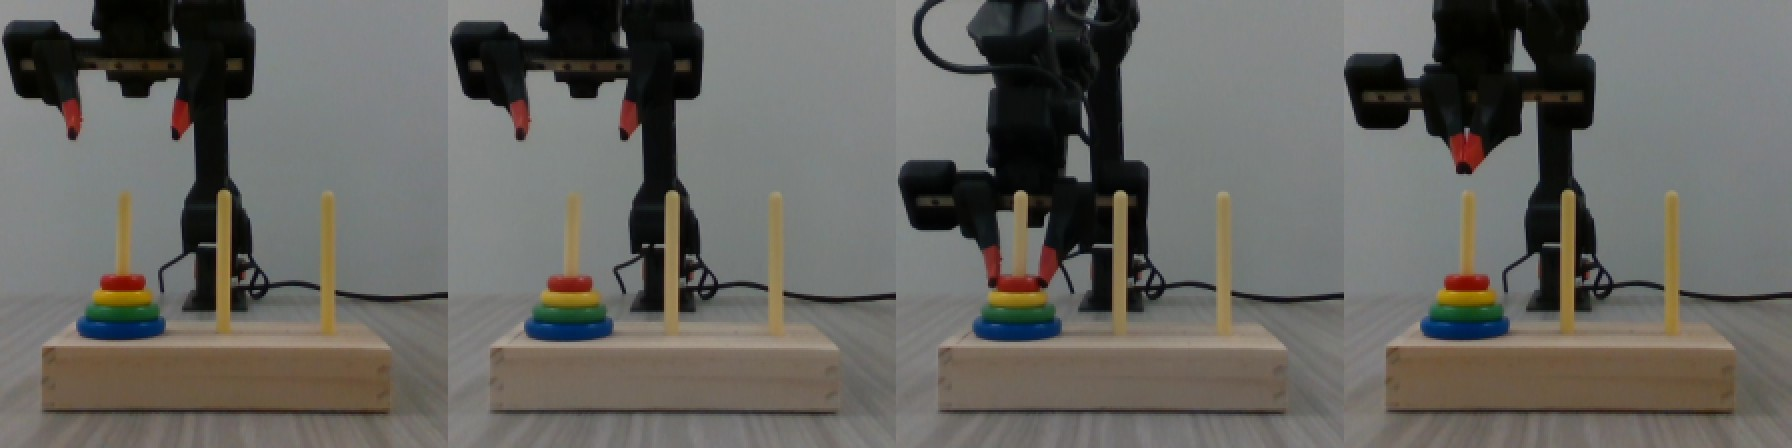
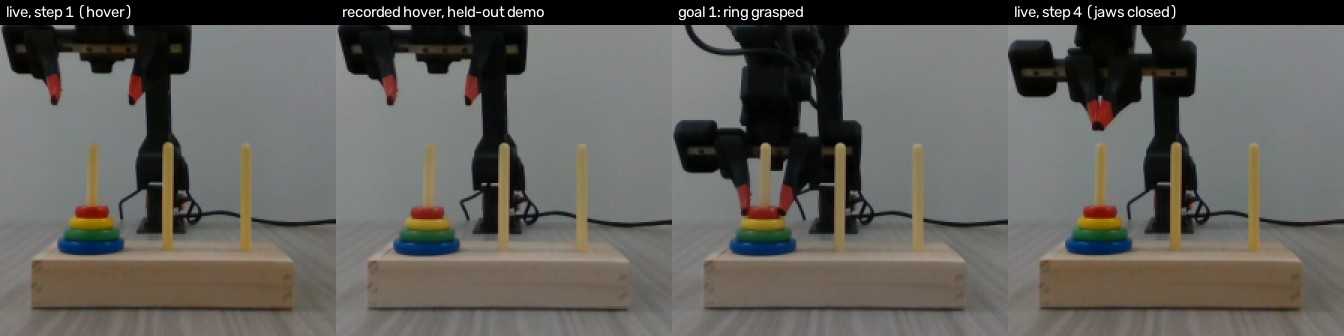
Correct and complete the 2026-10-13 robot results after a fact check
- RESULTS.md: fix the offline replay numbers of step 1 (+9.7, -31.6, -50.0) and
  their settings; H=3 mid-descent plan closes at its step 2 and moves 26 mm
  sideways; sideways components start at the hover; lateral distances instead of
  single axes; per-row ratio and clip-rate definitions; seed scheme; code versions
  of the runs; sweep rows start at the move start, not the hover; gripper std/clip
  are hard-coded in cem (needs code), axis indices for holds, subgoals need code;
  a runnable cluster block.
- sweep_analyze.py: clip threshold 0.99, step caps 16.7 and 8 mm; summary regenerated.
- figures re-rendered with single, readable labels.
- README and paper_protocol_eval: the maxnorm clip does bind CEM's plans; link the results.

Changed region(s): [[0.125, 0.0, 1.0, 0.0893], [0.0, 0.0, 0.0938, 0.0893]]

diff --git a/app/vjepa_hanoi/robot_results/2026-10-13/tools/sweep_analyze.py b/app/vjepa_hanoi/robot_results/2026-10-13/tools/sweep_analyze.py
@@ -1,5 +1,5 @@
 # Compare the maxnorm sweep, row-paired (same held-out rows and CEM seeds in every config).
-#   python -I analyze.py <sweep dir>
+#   python -I sweep_analyze.py <dir with ppe_maxnorm_*.json and *_rows.npz>
 import glob
 import json
 import os
@@ -37,7 +37,7 @@ for mn, res, r in runs:
     p3 = r["plan"][:, :3] * 1e3
     pmag = np.linalg.norm(p3, axis=1)
     cos3 = np.sum(p3[mov] * t3[mov], 1) / (pmag[mov] * tmag[mov] + 1e-9)
-    at_bound = np.mean(np.any(np.abs(r["plan"][:, :3]) >= 0.999 * mn, axis=1))
+    at_bound = np.mean(np.any(np.abs(r["plan"][:, :3]) >= 0.99 * mn, axis=1))
     scale = np.minimum(1.0, MAX_STEP * 1e3 / np.maximum(pmag, 1e-9))  # what the server would execute
     exec_err = np.linalg.norm(p3 * scale[:, None] - t3, axis=1)
     grip_sat = np.mean(np.abs(r["plan"][:, 6]) >= 0.74)
@@ -61,7 +61,7 @@ for g in (1, 2, 3):
     print(f"  goal {g} ({m.sum()} rows, {(m & mov).sum()} moving): " + " | ".join(cells))
 
 print("\nmedian error of the executed step (mm) if each planned step were capped at c mm (rows: maxnorm):")
-caps = [26.7, 17.5, 10.0, 7.5, 5.0]
+caps = [26.7, 16.7, 10.0, 8.0, 5.0]  # server caps: --max_speed 0.10 / 0.0625 / 0.03
 print(f"{'':>8}" + "".join(f"{f'cap {c:g}':>10}" for c in caps) + f"{'expert size':>13}{'zero step':>11}")
 for mn, _, r in runs:
     p3, t3_ = r["plan"][:, :3] * 1e3, r["true"][:, :3] * 1e3

diff --git a/app/vjepa_hanoi/robot_results/2026-10-13/tools/probe_planner.py b/app/vjepa_hanoi/robot_results/2026-10-13/tools/probe_planner.py
@@ -5,6 +5,8 @@
 #   --mode simple   simple goals from a training demo: "descended" (end of the descend stage) from the hover and along
 #                   the descent, then "grasped" (end of the grasp stage) from the bottom of the descent
 # Prints the planner's first action (and for H > 1 the whole plan) next to the expert's next step.
+# Held-out rows start at the last approach row (stage 2 end). --transition, --recording and --live go together: the
+# recording must hold that transition (episode 0 = first training demo, 9 = held-out); --live '' skips the live frame.
 #
 #   PYTHONPATH=<vjepa2> python app/vjepa_hanoi/robot_results/2026-10-13/tools/probe_planner.py --mode horizon \
 #       --bundle /scratch/cw5167/checkpoints/vjepa2_ac_hanoi/robot_bundle_firstmove --samples 400 --horizons 1,2,3

diff --git a/app/vjepa_hanoi/paper_protocol_eval.py b/app/vjepa_hanoi/paper_protocol_eval.py
@@ -27,7 +27,8 @@
 #
 # Deviations from the paper, stated:
 #   - The repo planner (notebooks/utils/mpc_utils.py::cem) clips each axis to a box (maxnorm 0.05 m), where the paper
-#     uses an L1 ball of radius 0.075. Neither binds here: expert steps are <= 3.3 cm.
+#     uses an L1 ball of radius 0.075. Neither binds the expert (steps <= 3.3 cm), but CEM's plans sit at the clip
+#     in most rows (robot_results/2026-10-13/RESULTS.md).
 #   - The paper's 4/10/4-step schedule is specific to its task, so the Hanoi schedule is set from expert timing.
 #   - --fix_x (off by default) holds x at 0 via the repo planner's axis option. x never varies in this data, so
 #     the model cannot learn its effect, and the planned x is otherwise random.

diff --git a/app/vjepa_hanoi/robot_results/2026-10-13/RESULTS.md b/app/vjepa_hanoi/robot_results/2026-10-13/RESULTS.md
@@ -1,26 +1,32 @@
 # V-JEPA 2-AC one-move test on the real arm: results and the open problem (2026-10-13)
 
-Case tested: **AAAA>BAAA** (ring 1 from peg A to peg B), variant `hold`, bundle `robot_bundle_firstmove` (weights
-sha256 `b60ad194…d320`, epoch 5). Robot machine: Trossen WXAI, RealSense on thor2, RTX 5080 (16 GB) running the
-planning server locally. Code: branch `hanoi-ac`, commits d87c15a (server) and 6271bb6 (runner); the hardware runs
-below ran that code before it was committed (their session files show HEAD 2b4a2f0 plus the changed files).
+Case tested: **AAAA>BAAA** (ring 1 from peg A to peg B), variant `hold` (the runner sends `hold_grasp=true` per run:
+gripper held closed while goal 2 is active, so every failure below, all under goal 1, is the same as `faithful`).
+Bundle `robot_bundle_firstmove` (weights sha256 `b60ad194…d320`, epoch 5). Robot machine: Trossen WXAI, RealSense on
+thor2, RTX 5080 (16 GB) running the planning server locally.
+
+Code: the runs used uncommitted working trees on top of 2b4a2f0 (session diff sha256 `fe54f307…` at 15:54 and
+`ffc60852…` at 16:48; the 10-11 run predates the `--execute` gate and records no diff). Their planning code equals
+d87c15a except for its memory/override options; the runner/safety code was revised before 6271bb6.
 
 **Bottom line.** The published protocol (horizon 1, three goal images, 800 CEM samples) fails at the first stage on the
-arm: at step 1, above the source peg, the planner **closes the gripper** (gripper action +0.75, the sampling limit),
-about 105 mm above the ring, then descends with closed jaws, with large random sideways components, until the 3 mm
-low-lateral guard stops it. No planner parameter tried offline (maxnorm, step cap, horizon 1-3, simpler subgoals)
-removes both failure modes: **(1) a premature close at the hover, (2) sideways drift near the rods.**
+arm: at step 1, above the source peg, the planner **closes the gripper** (gripper action +0.75, the sampling limit)
+about 105 mm above the ring, then descends with closed jaws while its x/y actions jump between large values, until
+the 3 mm low-lateral guard stops it. No planner setting tried offline (maxnorm, step cap, horizon 1-3, simpler
+subgoals) removes both failure modes: **(1) a premature close at the hover, (2) large sideways components from the
+hover onward** (31-41 mm at H=1 at the hover, 11-57 mm lower down).
 
 ## 1. Hardware runs
 
 | Run (`hardware/`) | Start | Server step cap | Steps | Outcome |
 |---|---|---|---|---|
-| `one_move_2026-10-11` | episode start (414, 16, 191) mm | 26.7 mm | 0 | stopped by the operator (Ctrl-C) before step 1 |
+| `one_move_2026-10-11` | episode start (414, 16, 191) mm | 26.7 mm | 0 | operator Ctrl-C before step 1 (metadata only) |
 | `one_move_2026-10-13` | episode start | 8 mm (`--max_speed 0.03`) | 2 | operator Ctrl-C; closed at step 1 in mid-air |
 | `one_move_2026-10-13_hover` | hover above peg A (498.4, -57.2, 191.1) mm | 8 mm | 4 | `UnsafeStep`: 5.8 mm sideways below the low floor |
 
 All: paper planner (rollout 1, 800 samples, 10 CEM steps, top 10, maxnorm 0.05, momentum 0.15), `--predictor_chunk
-200`, seed 37195. Hover run step by step (plan = CEM's first action before execution safety; exec = executed delta):
+200`. Run seed 37195; step k plans with CEM seed 37195 x 1000 + k (in `.steps.jsonl`). Hover run, step by step
+(plan = CEM's first action before execution safety; exec = executed delta):
 
 | Step | Tool z | Planned dxyz (mm) | Gripper | Executed (mm) | Goal-1 energy |
 |---|---|---|---|---|---|
@@ -29,66 +35,74 @@ All: paper planner (rollout 1, 800 samples, 10 CEM steps, top 10, maxnorm 0.05, 
 | 3 | 175 | (-14.0, -18.2, -50.0) | +0.61 close | (-2.2, -0.5, -7.7) | 0.528 |
 | 4 | 167 | (-17.8, +50.0, -50.0) | +0.74 close | (-2.0, +5.5, -5.5) -> guard stop | 0.533 |
 
-- z is pinned at -50 mm (the sampling limit) every step; y jumps between -40 and +50 mm; the energy stays flat.
+- z is at -50 mm (the sampling limit) every step; y swings between -40.5 and +50 mm; the energy stays flat.
 - Episode-start run: steps 1-2 planned (+50.0, -49.9, -48.5) and (+50.0, -50.0, -34.9) mm, gripper +0.74/+0.75.
 - **The input pipeline is not the problem.** The live hover frame and the recorded hover frame of the held-out demo
-  differ by 5.8 grey levels mean-abs (10.2 with RGB swapped), same crop: `figures/live_vs_recorded.jpg` (live step 1,
-  recorded hover, goal 1, live step 4). Offline, planning from the live step-1 frame reproduces the robot's step 1
-  exactly (+9.8, -32.2, -50.0) mm, +0.75 (`offline/horizon_probe.txt`).
-- Each `.npz` has every step (pose, jaw, action, executed delta, energies, intent, goal index, plan seconds, move
-  time and class, grasp reading) with its 224 px camera frame; `.steps.jsonl` is the same per step without images.
+  (row 70355) differ by 5.8 grey levels mean-abs (10.2 with RGB swapped), same crop: `figures/live_vs_recorded.jpg`.
+  Offline, planning from the live step-1 frame (400 samples, seed 7) gives (+9.7, -31.6, -50.0) mm, +0.75, plan
+  energy 0.410; the robot's step 1 (800 samples, seed 37195001) was (+9.7, -31.6, -50.0), +0.75, 0.4095.
+- Logs: each `.npz` has every step (pose, jaw, action, executed delta, energies, intent, goal index, plan seconds,
+  move time and class, grasp reading) with its 224 px frame. `.steps.jsonl` has the per-step fields without images
+  and grasp reading, plus target pose and seed. The 10-11 run has metadata only.
 
 ## 2. How the planner works here (notebooks/utils/mpc_utils.py::cem via goal_planner.py --protocol paper)
 
 - Horizon 1 model step = 0.267 s (data: every 8th 30 Hz row, 3.75 Hz). Receding horizon: replan every step.
-- Actions: [dx, dy, dz] ~ N(0, 50 mm) per axis clipped to +-maxnorm (50 mm); rotation fixed 0; gripper (change in
-  closedness, 0 open .. 1 closed) ~ **N(0, 1.0) clipped to +-0.75**. Final action = CEM mean after 10 iterations.
-- Server: intent = close if closedness + a_grip > 0.5; xyz clamped to the training-data box, then capped at
-  max_speed x 0.267 s; orientation fixed. Planning takes about 25 s per step on the RTX 5080 (about 7 s on an H200).
-- Goals (paper protocol): 3 frames of the first training demo of the same transition: end of grasp, end of transit,
-  end of release; switched by step count. From the hover the expert schedule is [13, 16, 11] (demos reach the hover
-  15.9 steps after their first row for source pegs A and C, 13.2 for B; the hover is tower_hanoi's
-  `grasp_position(peg)` at transit height, matching the demos within 0.4 mm). `figures/goal_images.jpg` shows the
-  start (hover) and the three goals for all six cases.
+- Sampling vector [dx, dy, dz, grip] (rotation fixed 0). xyz ~ N(0, maxnorm) per axis, clipped to +-maxnorm: the
+  initial std *is* maxnorm, so the maxnorm sweep changes both. grip (change in closedness, 0 open .. 1 closed) ~
+  **N(0, 1.0), clipped to +-0.75**. Both are hard-coded in `cem()` (no flag). The returned action is the CEM mean
+  after 10 iterations; a gripper mean with |g| < 0.25 is returned as 0 (`round_small_elements`).
+- Server: intent = close if clip(closedness + grip, 0, 1) > 0.5; xyz clamped to the training-data box, then capped at
+  max_speed x 0.267 s; orientation fixed. Planning takes about 25 s per step on the RTX 5080 (800 samples, H=1).
+- Goals (paper protocol): 3 frames of the first training demo of the same transition (end of grasp / transit /
+  release), switched by step count. From the hover the expert schedule is [13, 16, 11]: demos reach the hover 15.9
+  steps after their first row for source pegs A and C, 13.2 for B; the hover is tower_hanoi's `grasp_position(peg)`
+  at transit height, matching the demos within 0.4 mm. `figures/goal_images.jpg`: start + 3 goals, all six cases.
 - Expert stage durations from the hover, AAAA>BAAA (model steps): descend 7.9 (105 mm, median 16.5 mm/step, max
   ~24) | grasp 5.2 | lift 7.9 | transit 7.9 (15.8 for A<->C) | insert 7.9 | release 3.8.
 
 ## 3. Offline experiments (local RTX 5080, same bundle)
 
-**maxnorm sweep** (`offline/maxnorm_sweep/`, `paper_protocol_eval.py`, 72 held-out rows of the six first moves,
-same rows and seeds per setting; held-out archives rebuilt locally from the recordings, matching the bundle's goal
-frames and schedules exactly). Expert step: median 7.3 mm, p90 17.5, max 24.8.
+**maxnorm sweep** (`offline/maxnorm_sweep/`, `paper_protocol_eval.py --max_rows 72`: 72 rows spread over the six
+held-out first moves, same rows and seeds per setting; held-out/train archives rebuilt locally from the recordings,
+reproducing the bundle's goal frames and schedules exactly). Rows step from each move's **first row** (episode start,
+schedule [29,16,11]), not from the hover; for hover-start numbers use the rows with stage >= 3 in `*_rows.npz`.
+Expert step: median 7.3 mm, p90 17.5, max 24.8.
 
-| maxnorm | y-z direction right | 3D cos > 0 | planned step (median) | planned when the expert is still | executed error at the 26.7 mm cap |
-|---|---|---|---|---|---|
-| 50 mm | 0.93 | 0.82 | 65.8 mm (5.8x expert) | 47.3 mm | 22.7 mm |
-| 35 mm | 0.97 | 0.84 | 51.6 mm | 43.6 mm | 22.6 mm |
-| 25 mm | 0.95 | 0.78 | 40.1 mm | 32.0 mm | 23.1 mm |
-| 15 mm | 0.93 | 0.80 | 22.8 mm (2.0x) | 20.8 mm | 21.1 mm |
+| maxnorm | y-z direction right | 3D cos > 0 | planned step (median) | median per-row ratio to expert (moving rows) | rows with an axis at the clip | executed error at the 26.7 mm cap |
+|---|---|---|---|---|---|---|
+| 50 mm | 0.93 | 0.82 | 65.8 mm | 5.8 | 0.67 | 22.7 mm |
+| 35 mm | 0.97 | 0.84 | 51.6 mm | 4.7 | 0.74 | 22.6 mm |
+| 25 mm | 0.95 | 0.78 | 40.1 mm | 3.4 | 0.79 | 23.1 mm |
+| 15 mm | 0.93 | 0.80 | 22.8 mm | 2.0 | 0.82 | 21.1 mm |
 
-Direction is roughly right; magnitude always pushes to the sampling limit. Capping the executed step (from the saved
-rows): cap 17.5 mm -> ~16 mm error, 10 -> 10, 7.5 -> 7.6; planned direction with the expert's exact size -> 6.0-7.5;
-not moving at all -> 7.3 mm. Gripper sign accuracy 1.00 but on only 4 gripper events; 49-79% of rows have the
-gripper action at +-0.75.
+Direction is roughly right; the planned magnitude scales with maxnorm (median 1.3-1.6x maxnorm) and is far above the
+expert's, even on rows where the expert is still (planned 21-47 mm). Capping the executed step (from the saved rows):
+cap 16.7 mm -> 15-16 mm median error, 10 -> 10, 8 -> 8; planned direction at the expert's exact size -> 6.0-7.5; not
+moving at all -> 7.3 mm. Gripper sign accuracy 1.00 but on only 4 gripper events; 49-79% of rows have the gripper
+action at +-0.75.
 
-**Horizon probe, goal 1 "ring grasped"** (`offline/horizon_probe.txt`, 400 samples, seed 7; at 800 samples H >= 2
-does not fit in 16 GB). Times: H=1 12 s, H=2 39 s, H=3 80 s per plan.
+**Horizon probe, goal 1 "ring grasped"** (`offline/horizon_probe.txt`, 400 samples, seed 7, held-out rows 70355
+and 70387; at 800 samples H >= 2 does not fit in 16 GB). Times on the RTX 5080: H=1 12 s, H=2 39 s, H=3 80 s.
 
 | Start | Expert next | H=1 | H=2 | H=3 |
 |---|---|---|---|---|
-| live hover (z 191) | - | close +0.75, y -32 | close +0.74, sideways ~5 mm | close +0.50 (borderline), sideways ~21 mm |
-| recorded hover (z 191) | still, open | close +0.75 | close +0.51 | open +0.49; plan open/open/open |
-| 4 steps into the descent (z 138) | down 24 mm, open | close +0.74 | open -0.27, straight down | open -0.72; plan: down, down, then close |
+| live hover (z 191) | - | close +0.75; 33 mm sideways | close +0.74; 5 mm sideways | close +0.50 (borderline); 21 mm sideways |
+| recorded hover (z 191) | still, open | close +0.75; 32 mm sideways | close +0.51; 12 mm sideways | open +0.49; 9 mm sideways; plan stays open |
+| 4 steps into the descent (z 138) | down 24 mm, open | close +0.74 | open -0.27, straight down | open -0.72 but 26 mm sideways and only 29 mm down; plan closes at its step 2 |
 
 **Simple goals** (`offline/simple_goals_probe.txt`, goals from demo 0: "descended" = end of descend, jaws open around
-ring 1 at 87 mm; "grasped" = end of grasp; H=1 at 800 and H=2 at 400 samples).
+ring 1 at 87 mm; "grasped" = end of grasp; H=1 at 800 samples, H=2 at 400; held-out rows from the last approach row
+70354 on).
 
-| Start | Goal | Expert next | Planner |
+| Start | Goal | Expert next | Planner H=1 / H=2 |
 |---|---|---|---|
-| hover, live and recorded (z 191) | descended | still | down 50 mm, but **close** (+0.75 / +0.63) |
-| 3 steps down (z 165) | descended | down 24, open | down, open, but **20-50 mm sideways** |
-| 6 steps down (z 98) | descended | down 10, open | down 13-16 mm, open, small sideways (slows near the goal) |
-| end of descent (z 87) | grasped | close | **close**, no z move, but **11-15 mm sideways** |
+| live hover (z 191) | descended | - | down 50, **close** +0.75 / +0.75; sideways 41 / 1 mm |
+| recorded hover (z 191) | descended | still | down 50, **close** +0.75 / +0.63; sideways 31 / 11 mm |
+| 3 steps down (z 165) | descended | down 24, open | down 50, open, **57 / 32 mm sideways** |
+| 6 steps down (z 98) | descended | down 10, open | down 16 / 13 mm, open, 7 / 4 mm sideways (slows near the goal) |
+| end of descent (z 87) | grasped | still (closes 2 steps later) | **close** +0.63 / +0.58, no z move, 12 / 11 mm sideways |
+| 2 steps later (z 86) | grasped | close +0.70 | **close** +0.73 / +0.67, 18 / 17 mm sideways |
 
 ## 4. Diagnosis
 
@@ -98,30 +112,54 @@ ring 1 at 87 mm; "grasped" = end of grasp; H=1 at 800 and H=2 at 400 samples).
   H=2, borderline at H=3. Likely a learned correlation: in the data a close happens only at grasp height, so a close
   action makes the predicted frame look "lower", i.e. closer to any low goal. Contributing: the gripper's initial
   std 1.0 clipped at +-0.75 puts ~45% of first-iteration samples at the limit, and +0.5 already means close.
-- **Sideways drift**: the energy barely penalizes x/y; the expert never moves sideways during descend/grasp.
+- **Sideways components**: the energy barely penalizes x/y; the expert never moves sideways during descend/grasp.
 - **Distance**: goal 1 is 13 expert steps from the hover; horizon 1-3 cannot see it, and the model was trained on
   2-step rollouts (`loss.auto_steps: 2`).
 
 ## 5. Suggested next experiments (cluster, offline first)
 
-1. Reproduce: `probe_planner.py --mode horizon` and `--mode simple` (section 6), then `paper_protocol_eval.py` on all
-   six cases with `--rollout 2/3 --samples 400/800` (the H200 fits 800 at H >= 2).
-2. Gripper sampling, a plain CEM parameter rather than a task aid: smaller initial gripper std (e.g. 0.3) or a wider
-   clip; check whether the hover close disappears with the "descended" goal.
-3. Per-stage subgoals (end of descend, grasp, lift, transit, insert, release; 4-8 steps apart) with H=2-3.
-4. If 1-3 do not fix it (these are task aids, outside the paper baseline): hold the gripper open while "descended" is
-   active (mirror of `--hold_grasp`), and hold x/y during descend/grasp via the planner's `axis` option.
-5. On the arm, the descent needs about 16.5 mm per step to keep the 13-step goal-1 budget: use
-   `--max_speed 0.0625` (16.7 mm cap), not 0.03 (8 mm, which needs 13 steps for the descent alone).
+1. Reproduce: `tools/probe_planner.py` (section 6). The probe outputs here came from earlier scratch scripts with the
+   rows noted above; the tool's horizon mode starts from the last approach row (70354/70386), so expect small
+   differences. Then `paper_protocol_eval.py` with `--rollout 2/3` and `--samples 400/800` (section 6 command).
+2. Gripper sampling (a CEM change, not a task aid; needs code): add `gripper_std=1.0, gripper_clip=0.75` keyword
+   arguments to `mpc_utils.cem` (defaults unchanged), pass them through `cem_kw`, and test e.g. std 0.3 with
+   `probe_planner --mode simple` at the hover rows (goal "descended"). A clip above 1.0 changes nothing: the server
+   clips closedness to [0, 1] and closes above 0.5.
+3. Per-stage subgoals: stage ends 3 descend, 4 grasp, 5 lift, 6 transit, 7 insert, 8 release (4-8 steps apart), with
+   the median expert steps per stage as the schedule and H=2-3. Needs code: `paper_protocol_eval.py` fixes
+   `GOAL_STAGES = (4, 6)` + the final stage, and the bundle holds 3 frames per transition.
+4. Only if 1-3 fail (task aids, outside the paper baseline): hold the gripper open while "descended" is active
+   (`cem_kw["axis"] = {3: 0.0}`, since the sampling vector is [dx, dy, dz, grip]; `close_gripper` can only force a
+   close), and hold x/y during descend/grasp (`cem_kw["axis"] = {0: 0.0, 1: 0.0}`; only `--fix_x` exists as a flag).
+5. On the arm, the descent needs about 16.5 mm per step to fit the 13-step goal-1 budget: `--max_speed 0.0625`
+   (16.7 mm cap), not 0.03 (8 mm, which needs 13 steps for the descent alone).
 
 ## 6. Files and commands
 
 - `hardware/`: the three runs (session file with server /health and code state, results.jsonl, per-step npz/jsonl).
 - `offline/`: maxnorm sweep JSON + per-row npz + `summary.txt`; horizon and simple-goal probe outputs.
-- `figures/`: `goal_images.jpg` (start + 3 goals, 6 cases), `live_vs_recorded.jpg`.
-- `tools/probe_planner.py` (both probes; cluster paths by default):
-  `PYTHONPATH=. python app/vjepa_hanoi/robot_results/2026-10-13/tools/probe_planner.py --mode simple --samples 800 --horizons 1,2,3`
-- `tools/sweep_analyze.py <dir with ppe_maxnorm_*.json>`: the sweep tables above (including the step-cap table).
-- `tools/run_ppe.py`: runs `paper_protocol_eval.py` with predictor chunking (16 GB GPUs only).
-- `tools/build_first_move_archives.py`: rebuilds expert6_first_move train/test from the six recordings when the
-  cluster archives are not available (row counts checked against the Cosmos metadata).
+- `figures/`: `goal_images.jpg` (start + 3 goals, 6 cases), `live_vs_recorded.jpg` (live step 1 | recorded hover |
+  goal 1 | live step 4).
+- `tools/probe_planner.py`: both probes; defaults are the cluster bundle and the AAAA_to_CCCC recording, and `--live`
+  defaults to the committed hover-run npz (`--live ''` disables it). `--transition`, `--recording` and `--live` go
+  together: the recording must hold that transition (episode 0 = first training demo, 9 = held-out); the live frame
+  exists only for AAAA>BAAA.
+- `tools/sweep_analyze.py <dir>`: the sweep tables above (labels rows by maxnorm; adapt for rollout/samples sweeps).
+- `tools/run_ppe.py`: `paper_protocol_eval.py` with predictor chunking, for 16 GB GPUs only.
+- `tools/build_first_move_archives.py`: only for machines without the cluster archives (it rebuilds train/test from
+  the recordings using the Cosmos `multitask_v6/metadata.json`; row counts checked against it).
+
+On the cluster (paths as used on the cluster before; the H200 numbers are expectations, not measured here: if memory
+runs out, add `--predictor_chunk 400` to the probe or use `tools/run_ppe.py`):
+
+```bash
+cd /scratch/cw5167/workspace/vjepa2 && git pull
+K=/scratch/cw5167/checkpoints/vjepa2_ac_hanoi; B=$K/robot_bundle_firstmove   # MANIFEST sha256 b60ad194...d320
+# probes (one GPU, a few minutes):
+PYTHONPATH=. .venv/bin/python app/vjepa_hanoi/robot_results/2026-10-13/tools/probe_planner.py --mode simple \
+    --bundle $B --samples 800 --horizons 1,2,3
+# row-paired with the sweep here (72 rows):
+PYTHONPATH=. .venv/bin/python -m app.vjepa_hanoi.paper_protocol_eval --fname $B/config.yaml --checkpoint $B/weights.pt \
+    --archive $K/data/expert6_first_move/test.npz --goal_archive $K/data/expert6_first_move/train.npz \
+    --max_rows 72 --rollout 2 --samples 800 --out $K/paper_protocol/firstmove_2026-10-13/ppe_r2_s800.json
+```

diff --git a/app/vjepa_hanoi/README.md b/app/vjepa_hanoi/README.md
@@ -155,14 +155,18 @@ CCCC>BCCC), 29 / 24 / 11 (AAAA>CAAA, CCCC>ACCC) and 26 / 16 / 12 (BBBB>ABBB, BBB
     without it, the planner commands "open" on most carrying steps offline and is expected to drop the ring.
 
 Deviations from the paper:
-- The repo planner clips each axis to ±0.05 m where the paper uses an L1 ball of radius 0.075. Neither binds here:
-  expert steps are at most 3.3 cm.
+- The repo planner clips each axis to ±0.05 m where the paper uses an L1 ball of radius 0.075. Neither binds the
+  expert (steps at most 3.3 cm), but CEM's plans do sit at the clip in 67-82% of rows
+  (`robot_results/2026-10-13/RESULTS.md`).
 - The paper's 4 / 10 / 4-step schedule belongs to its own task, so the Hanoi schedule is set from expert timing.
 
 This protocol covers one game move. A 15-move task would need subgoal images for every move, i.e. a task planner,
 which the published method does not have.
 
 ## Real-robot one-move test (the six first moves, `one_move_test.py`)
+
+**Results so far:** `robot_results/2026-10-13/RESULTS.md` (first runs on the arm: the paper protocol closes the
+gripper above the ring at step 1; offline probes of maxnorm, step caps, horizon and simple subgoals; next steps).
 
 The model is A fine-tuned on `data/expert6_first_move`. That is the same 48 training episodes the VLA and
 world-action models get: the first move of each H15 task, ring 1 off a full stack. The planning server runs on the
